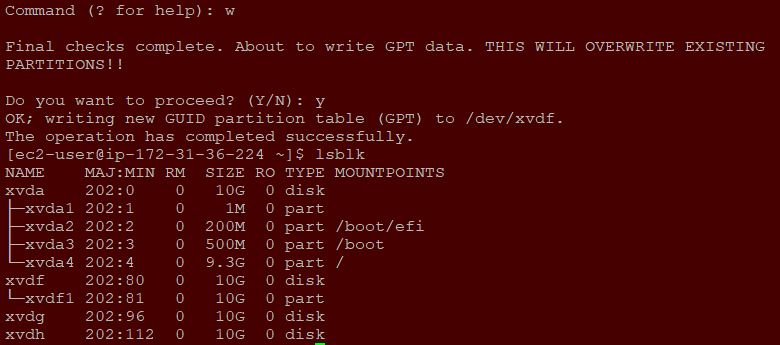
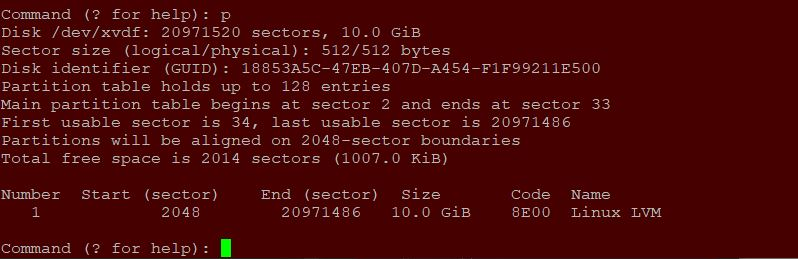
web server update

diff --git a/project6.md b/project6.md
@@ -14,7 +14,8 @@ Also, this deployment will be based on a `Three-tier Architecture`, a client-ser
 Use `RedHat` O.S. for this project and `ec2-user` as yhe username when connecting via `ssh/putty`.
 
 **LAUNCH AND PREPARE AN EC2 INSTANCE THAT WIL SERVE AS `WEB SERVER`**
-1. On AWS console, create 3 volumes of 10GB each and and on the same AZ as the `web serve` and have them attached on the `web server` EC2 instance.
+
+On AWS console, create 3 volumes of 10GB each and and on the same AZ as the `web serve` and have them attached on the `web server` EC2 instance.
 
 1. Open the `Linux` terminal and inspect what block devices are attached by running the below command:
    - `lsblk`
@@ -36,6 +37,128 @@ Use `RedHat` O.S. for this project and `ec2-user` as yhe username when connectin
 1. Create a single partition on each of the 3 disks using `gdisk` utility.
 
    - `sudo gdisk /dev/xvdf`
+   - `?` (Required to print menu)
+   - `p` (To print the partition table)
 
-     ![step4](./project6Pictures/step5_p6.JPG)
+     ![step4](./project6Pictures/step4_p6.JPG)
+
+1.   The following commands should be entered to create a partition.
+     - `n`
+     - `1`
+     - `2048`
+     - `20971486`
+     - `8E00`
+    
+       ![step5](./project6Pictures/step5_p6.JPG)
+
+1. Enter `p` to confirm/print the partition table.
+     - `p`
+       
+       ![step6](./project6Pictures/step6_p6.JPG)
+
+1. Write `w` table to disk and exit.
+     - `w`
+       
+       ![step7](./project6Pictures/step7_p6.JPG)
+
+1. Create partitions for the remaining disks and use `lsblk` utility to view the newly configured partition on each of the 3 disks.
+     - `lsblk`
+       
+       ![step8](./project6Pictures/step8_p6.JPG)
+
+1. Install `lvm2` package and then run `sudo lvmdiskscan` to check for available partitions.
+     - `sudo yum install lvm2`
+
+       ![step9a](./project6Pictures/step9a_p6.JPG)
+     - `sudo lvmdiskscan`
+       
+       ![step9b](./project6Pictures/step9b_p6.JPG)
+
+1. Mark each of 3 disks as physical volumes (PVs) to be used by LVM usint the utility `pvcreate`.
+     - `sudo pvcreate /dev/xvdf1`
+     - `sudo pvcreate /dev/xvdg1`
+     - `sudo pvcreate /dev/xvdh1`
+
+       ![step10](./project6Pictures/step10_p6.JPG)
+
+1. Verify the Physical volume has been created successfully by running sudo `pvs`.
+     - `sudo pvs`
+     
+       ![step11](./project6Pictures/step11_p6.JPG)
+
+1. Add all 3 PVs to a volume group (VG). Name the VG `webdata-vg` using the utility `vgcreate`.
+     - `sudo vgcreate webdata-vg /dev/xvdh1 /dev/xvdg1 /dev/xvdf1`
+     
+       ![step12](./project6Pictures/step12_p6.JPG)
+
+1. Verify that the VG has been created successfully.
+     - `sudo vgs`
+     
+       ![step13](./project6Pictures/step13_p6.JPG)
+
+1. Create 2 logical volumes `apps-lv`to store data for the Website and `logs-lv` used to store data for logs using `lvcreate` utility.
+     - `sudo lvcreate -n apps-lv -L 14G webdata-vg`
+     - `sudo lvcreate -n logs-lv -L 14G webdata-vg`
+     
+       ![step14](./project6Pictures/step14_p6.JPG)
+
+1. Verify the Logical Volume has been created successfully.
+     - `sudo lvs`
+          
+       ![step15](./project6Pictures/step15_p6.JPG)
+
+1. Verify and view the complete setup.
+     - `sudo vgdisplay -v`
+          
+       ![step16a](./project6Pictures/step16a_p6.JPG)
+
+    - `sudo lsblk`
+
+       ![step16b](./project6Pictures/step16b_p6.JPG)
+
+1. Format the Logical Volumes with `ext4` filesystem.
+     - `sudo mkfs -t ext4 /dev/webdata-vg/apps-lv`
+          
+       ![step17a](./project6Pictures/step17a_p6.JPG)
+
+    - `sudo mkfs -t ext4 /dev/webdata-vg/logs-lv`
+       
+       ![step17b](./project6Pictures/step17b_p6.JPG)
+
+1. Create `/var/www/html` directory to store website files.
+     - `sudo mkdir -p /var/www/html`
+          
+       ![step18](./project6Pictures/step18_p6.JPG)
+
+1. Create `/home/recovery/logs` directory to store backup of log data.
+     - `sudo mkdir -p /home/recovery/logs`
+          
+       ![step19](./project6Pictures/step19_p6.JPG)
+
+1. Mount `/var/www/html` on `apps-lv` Logical Volume.
+     - `sudo mount /dev/webdata-vg/apps-lv /var/www/html`
+          
+       ![step20](./project6Pictures/step20_p6.JPG)
+
+1. Before mounting the filesystem, use `rsync` utility to backup all the files from the log directory `/var/log` into `/home/recovery/logs`.
+     - `sudo rsync -av /var/log/. /home/recovery/logs/`
+          
+       ![step21](./project6Pictures/step21_p6.JPG)
+
+1. Mount `/var/log` on `logs-lv` Logical Volume. Note that all the existing data om `/var/log` will be deleted.
+
+     - `sudo mount /dev/webdata-vg/logs-lv /var/log`
+          
+       ![step22](./project6Pictures/step22_p6.JPG)
+
+1. Restore the log files back into `/var/log` directory.
+     - `sudo rsync /home/recovery/logs/. /var/log`
+          
+       ![step23](./project6Pictures/step23_p6.JPG)
+
+1. Update the `/etc/fstab` file so that the mount configuration will persist after restart of the server.
+     - `sudo rsync /home/recovery/logs/. /var/log`
+          
+       ![step23](./project6Pictures/step23_p6.JPG)
+
 
